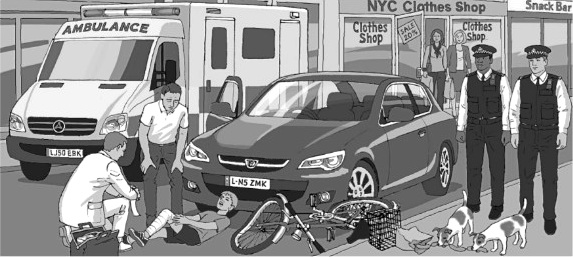
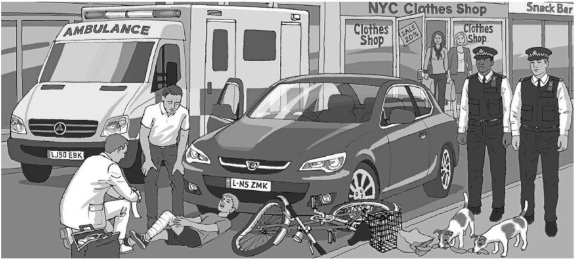
Add files via upload

diff --git a/kinder-app.js b/kinder-app.js
@@ -110,7 +110,7 @@ const GRAMMAR=[
    ['We made ',' pizza for dinner.',['ourselves']],
    ['Laura and her friend haven’t seen ',' for a long time.',['each other']]
   ]},
-  {title:'4 · Write four sentences about rugby',intro:'Use adjectives and adverbs. Wörter: popular · fast · quick · slow · easy · safe',starts:['Rugby','It is','The players','You can'],open:[
+  {title:'4 · Write four sentences about rugby',intro:'Use adjectives and adverbs. Wörter: popular · fast · quick · slow · easy · safe',open:[
    'Rugby is a popular sport.', 'It is a fast sport too.',
    'The players must run quickly.', 'You can learn the rules easily.'
   ]}
@@ -124,7 +124,7 @@ const GRAMMAR=[
    ['Two women have ',' (sprain) their ankles.',['sprained']],
    ['Three men have ',' (hurt) their heads.',['hurt']]
   ]},
-  {title:'2 · Megan works for the emergency services. Make sentences',intro:'What has she already done today? Make sentences. Use the present perfect.',image:'megan-station2.jpg',prompts:['work on the computer','open the window','hang up her uniform','drink tea','make a phone call','write a message'],starts:['Megan has already'],open:[
+  {title:'2 · Megan works for the emergency services. Make sentences',intro:'Use the present perfect. Vorgaben in Arbeitsblatt-Reihenfolge: work on the computer · open the window · hang up her uniform · drink tea · make a phone call · write a message.',open:[
    'Megan has already worked on the computer.',
    'She has already opened the window.',
    'She has already hung up her uniform.',
@@ -132,7 +132,7 @@ const GRAMMAR=[
    'She has already made a phone call.',
    'She has already written a message.'
   ]},
-  {title:'3 · What has happened? Write six sentences in the present perfect',intro:'Look at the picture. What has happened? Write six sentences in the present perfect. You can use these verbs.',image:'unfall-station2.jpg',prompts:['be ✓','fall off','hurt','come','arrive','put','take'],example:'There has been an accident.',open:[
+  {title:'3 · What has happened? Write six sentences in the present perfect',intro:'Look at the picture. What has happened? Write six sentences in the present perfect. You can use these verbs.',open:[
    'A boy has fallen off his bike.',
    'He has hurt his leg.',
    'Two police officers have come.',
@@ -190,14 +190,19 @@ function grammarRender(st,task,checked=false,reveal=false){
   const t=GRAMMAR[st].tasks[task],values=grammarRead(st,task),isOpen=!!t.open;
  const inputStyle='box-sizing:border-box;display:inline-block;vertical-align:middle;max-width:190px;width:43vw;min-width:100px;min-height:38px;margin:3px 4px;padding:6px 8px;border-radius:8px;background:#fff;color:#17152b;font-size:16px;line-height:1.3';
  let content='';
- if(t.items){
-  content=t.items.map(([before,after,answers],i)=>{
+  if(st===1&&task===2){
+   const verbs=['be ✓','fall off','hurt','come','arrive','put','take'];
+   const tiles=`<div style="display:flex;flex-wrap:wrap;gap:7px;margin:12px 0">${verbs.map(v=>`<span style="background:#e5e7eb;color:#17152b;border-radius:7px;padding:7px 12px;font-weight:600">${esc(v)}</span>`).join('')}</div>`;
+   const picture='<img src="./unfall-station2.jpg" alt="Unfall mit Fahrrad, Krankenwagen, Polizei und Hunden" style="display:block;width:100%;height:auto;border-radius:8px;margin:12px 0">';
+   const example='<p><strong>Example:</strong> There has been an accident.</p>';
+   content=picture+tiles+example+t.open.map((answer,i)=>`<div style="margin:14px 0"><label style="display:block;margin-bottom:5px"><strong>${i+1}.</strong> Write a sentence:</label><textarea data-grammar="${i}" rows="2" spellcheck="false" style="box-sizing:border-box;width:100%;max-width:100%;padding:9px;border-radius:8px;font-size:16px;background:white;color:#17152b">${esc(values[i]||'')}</textarea>${reveal?`<p class="muted">Musterlösung: <strong>${esc(answer)}</strong></p>`:''}</div>`).join('');
+  }else if(t.items){
+   content=t.items.map(([before,after,answers],i)=>{
    const val=String(values[i]||''),ok=answers.some(a=>grammarNormalize(a)===grammarNormalize(val));
    return `<div style="margin:12px 0;line-height:1.85;overflow-wrap:break-word"><strong>${i+1}.</strong> ${esc(before)}<input data-grammar="${i}" aria-label="Aufgabe ${i+1}" autocomplete="off" autocapitalize="none" spellcheck="false" value="${esc(val)}" style="${inputStyle};border:2px solid ${checked?(ok?'#6ee7a8':'#ff8d8d'):'#8c86bd'}">${esc(after)}${reveal&&!ok?`<div style="color:#ffb0b0;font-weight:600">Lösung: ${esc(answers.join(' / '))}</div>`:''}</div>`;
   }).join('');
  }else{
-  if(t.image)content+=`<img src="${esc(t.image)}" alt="Bild zur Grammatikaufgabe" style="display:block;width:100%;max-width:480px;height:auto;margin:12px auto;border-radius:8px"><p><strong>Wortvorgaben:</strong></p><div style="display:grid;grid-template-columns:repeat(auto-fit,minmax(135px,1fr));gap:8px;margin:10px 0 20px">${t.prompts.map(p=>`<div style="padding:10px;border:1px solid #8c86bd;border-radius:8px">${esc(p)}</div>`).join('')}</div>`;
-  content+=t.open.map((example,i)=>`<div style="margin:14px 0"><label style="display:block;margin-bottom:5px"><strong>${i+1}.</strong> ${t.starts?.[i]?`<strong>${esc(t.starts[i])}</strong> <span class="muted">– hier weiterschreiben:</span>`:esc(t.image?'Schreibe einen vollständigen englischen Satz.':t.prompts?.[i]||'Schreibe einen vollständigen englischen Satz.')}</label><textarea data-grammar="${i}" rows="2" spellcheck="false" style="box-sizing:border-box;width:100%;max-width:100%;padding:9px;border-radius:8px;font-size:16px;background:white;color:#17152b">${esc(values[i]||'')}</textarea>${reveal?`<p class="muted">Musterlösung: <strong>${esc(example)}</strong></p>`:''}</div>`).join('');
+  content=t.open.map((example,i)=>`<div style="margin:14px 0"><label style="display:block;margin-bottom:5px"><strong>${i+1}.</strong> ${esc(t.prompts?.[i]||'Schreibe einen vollständigen englischen Satz.')}</label><textarea data-grammar="${i}" rows="2" spellcheck="false" style="box-sizing:border-box;width:100%;max-width:100%;padding:9px;border-radius:8px;font-size:16px;background:white;color:#17152b">${esc(values[i]||'')}</textarea>${reveal?`<p class="muted">Musterlösung: <strong>${esc(example)}</strong></p>`:''}</div>`).join('');
  }
  const total=t.items?.length||t.open.length,correct=t.items?t.items.filter((x,i)=>x[2].some(a=>grammarNormalize(a)===grammarNormalize(values[i]))).length:0;
  app.innerHTML=card(`<h2>📘 ${esc(GRAMMAR[st].title)}</h2><h3>${esc(t.title)}</h3>${t.intro?`<p>${esc(t.intro)}</p>`:''}${t.example?`<p class="muted">Example: ${esc(t.example)}</p>`:''}<p class="muted">${isOpen?'Schreibe selbst. Über „💡 Lösung anzeigen“ kannst du die Musterlösungen ansehen; andere richtige Sätze sind möglich.':'Trage die richtige englische Form ein.'} Beim erneuten Öffnen beginnt die Übung mit leeren Feldern.</p>${checked?`<p class="good"><strong>${isOpen?'Deine Sätze sind gespeichert. Vergleiche sie bei Bedarf mit den Musterlösungen.':`${correct} von ${total} richtig. Verbessere die roten Felder selbst.`}</strong></p>`:''}${content}<div class="buttons">${btn(isOpen?'✅ Eingaben speichern':'✅ Antworten prüfen','grammarCheck')}${btn('💡 Lösung anzeigen','grammarReveal','alt')}${btn('🔄 Eingaben leeren','grammarClear','alt')}</div>`)+card(btn('Zur Aufgabenübersicht','grammarBack','alt'));
